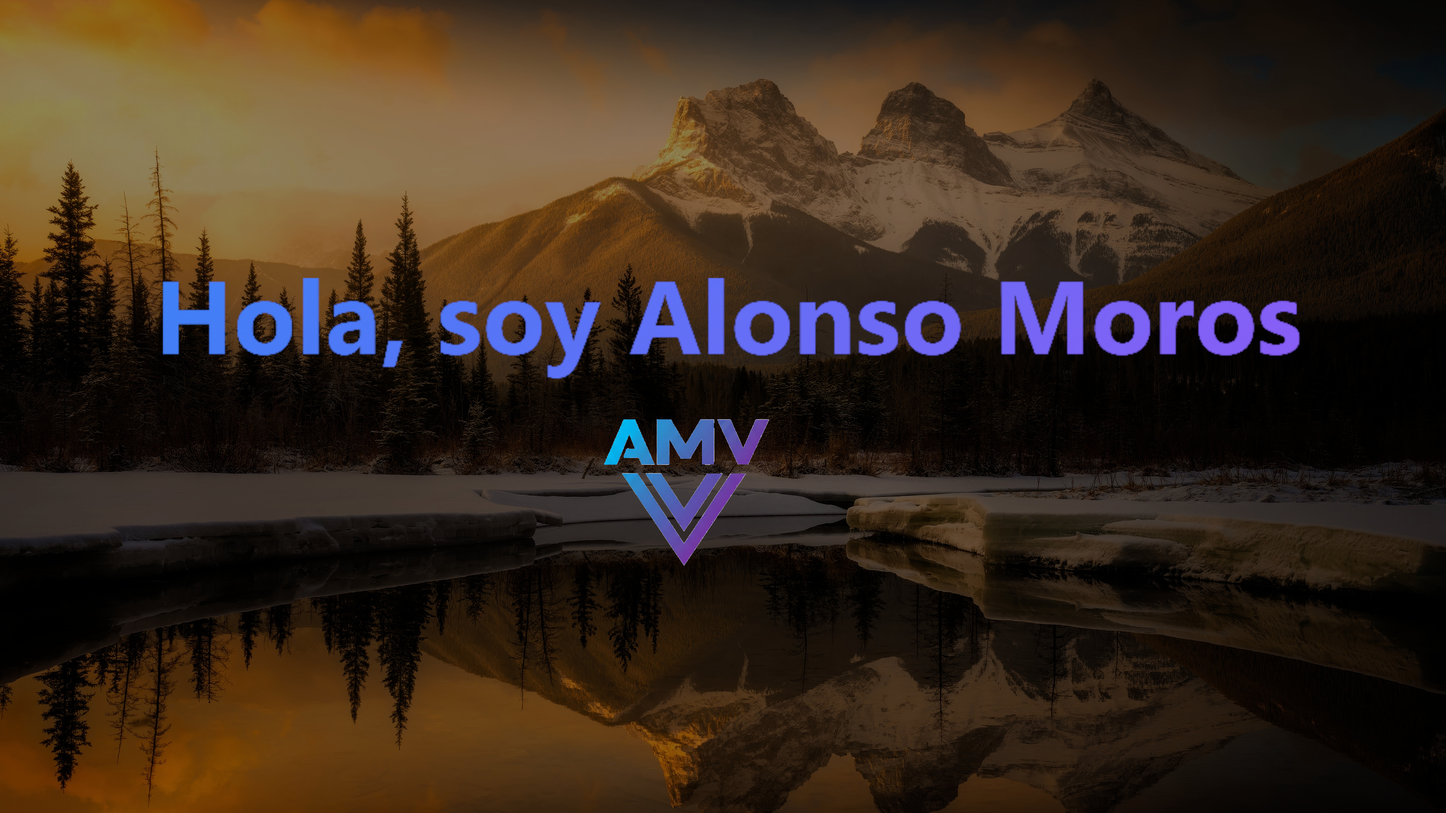
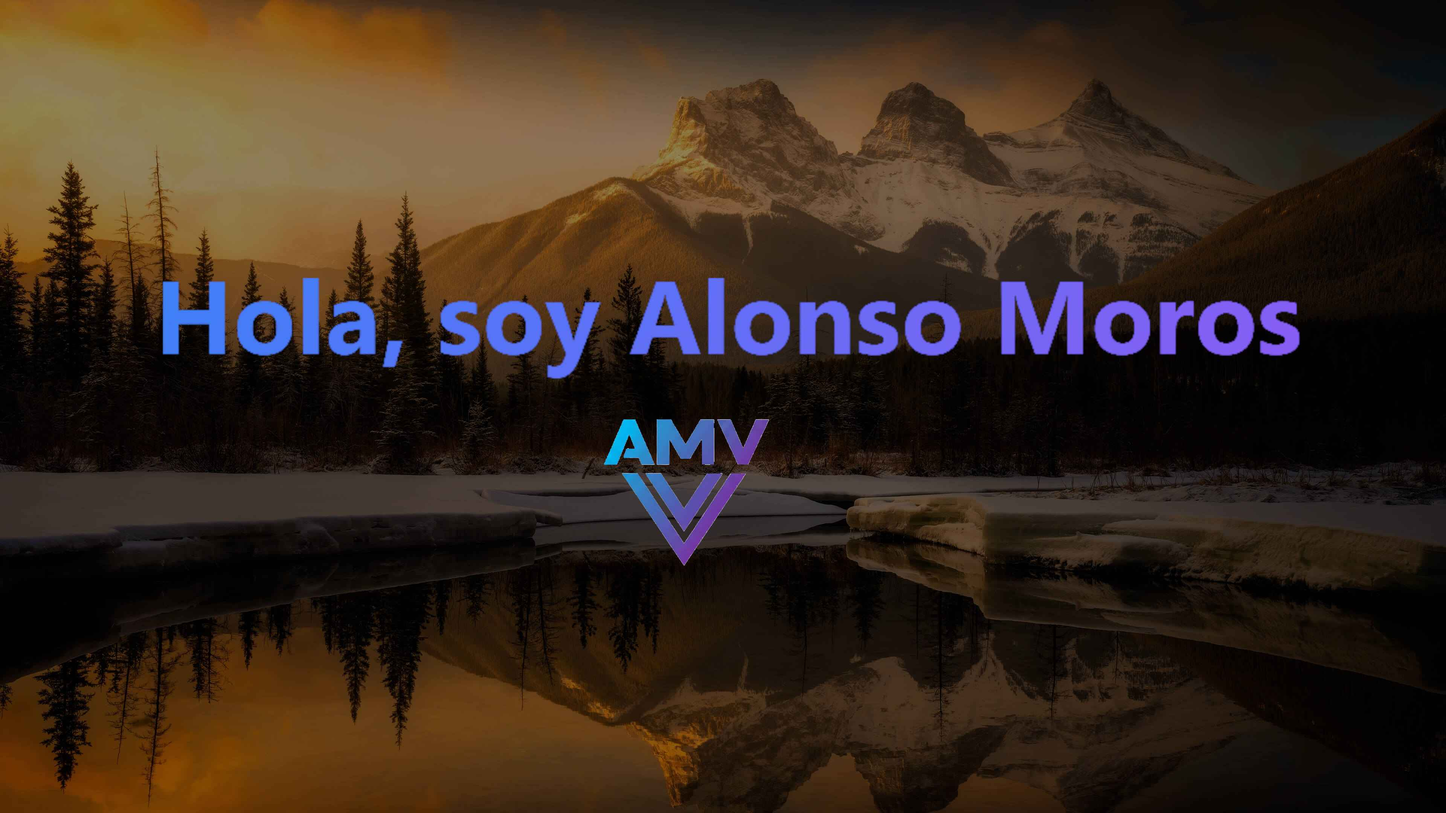
Cambios de og-image

Changed region(s): [[0.5, 0.5273, 0.5312, 0.5583], [0.4688, 0.6204, 0.5, 0.6514], [0.4375, 0.5583, 0.4688, 0.5894]]

diff --git a/index.html b/index.html
@@ -24,9 +24,9 @@
   <meta property="og:title" content="Alonso Moros - Desarrollador Full-Stack" />
   <meta property="og:description"
     content="Portfolio profesional de Alonso Moros - Desarrollador Web especializado en React, TypeScript, Java y Spring Boot." />
-  <meta property="og:image" content="https://alonsomoros.github.io/logo.png" />
-  <meta property="og:image:secure_url" content="https://alonsomoros.github.io/logo.png" />
-  <meta property="og:image:type" content="image/png" />
+  <meta property="og:image" content="https://alonsomoros.github.io/og-image.jpg" />
+  <meta property="og:image:secure_url" content="https://alonsomoros.github.io/og-image.jpg" />
+  <meta property="og:image:type" content="image/jpeg" />
   <meta property="og:image:width" content="512" />
   <meta property="og:image:height" content="512" />
   <meta property="og:image:alt" content="Alonso Moros - Logo" />
@@ -39,7 +39,7 @@
   <meta name="twitter:title" content="Alonso Moros - Desarrollador Full-Stack" />
   <meta name="twitter:description"
     content="Portfolio profesional de Alonso Moros - Desarrollador Web especializado en React, TypeScript, Java y Spring Boot." />
-  <meta name="twitter:image" content="https://alonsomoros.github.io/logo.png" />
+  <meta name="twitter:image" content="https://alonsomoros.github.io/og-image.jpg" />
   <meta name="twitter:image:alt" content="Alonso Moros - Logo" />
 
   <!-- Theme color -->
